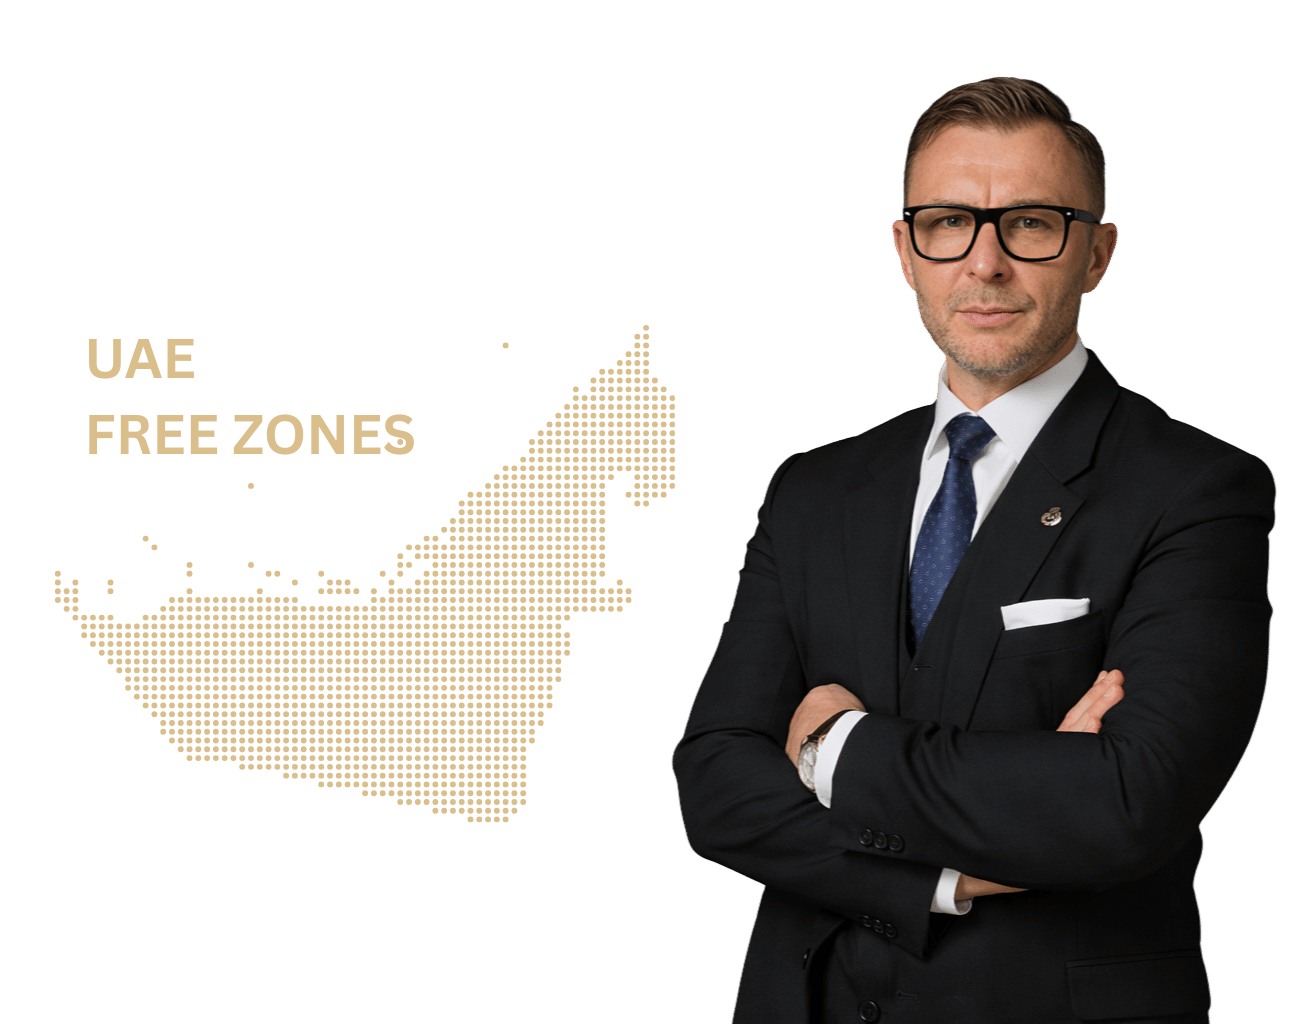
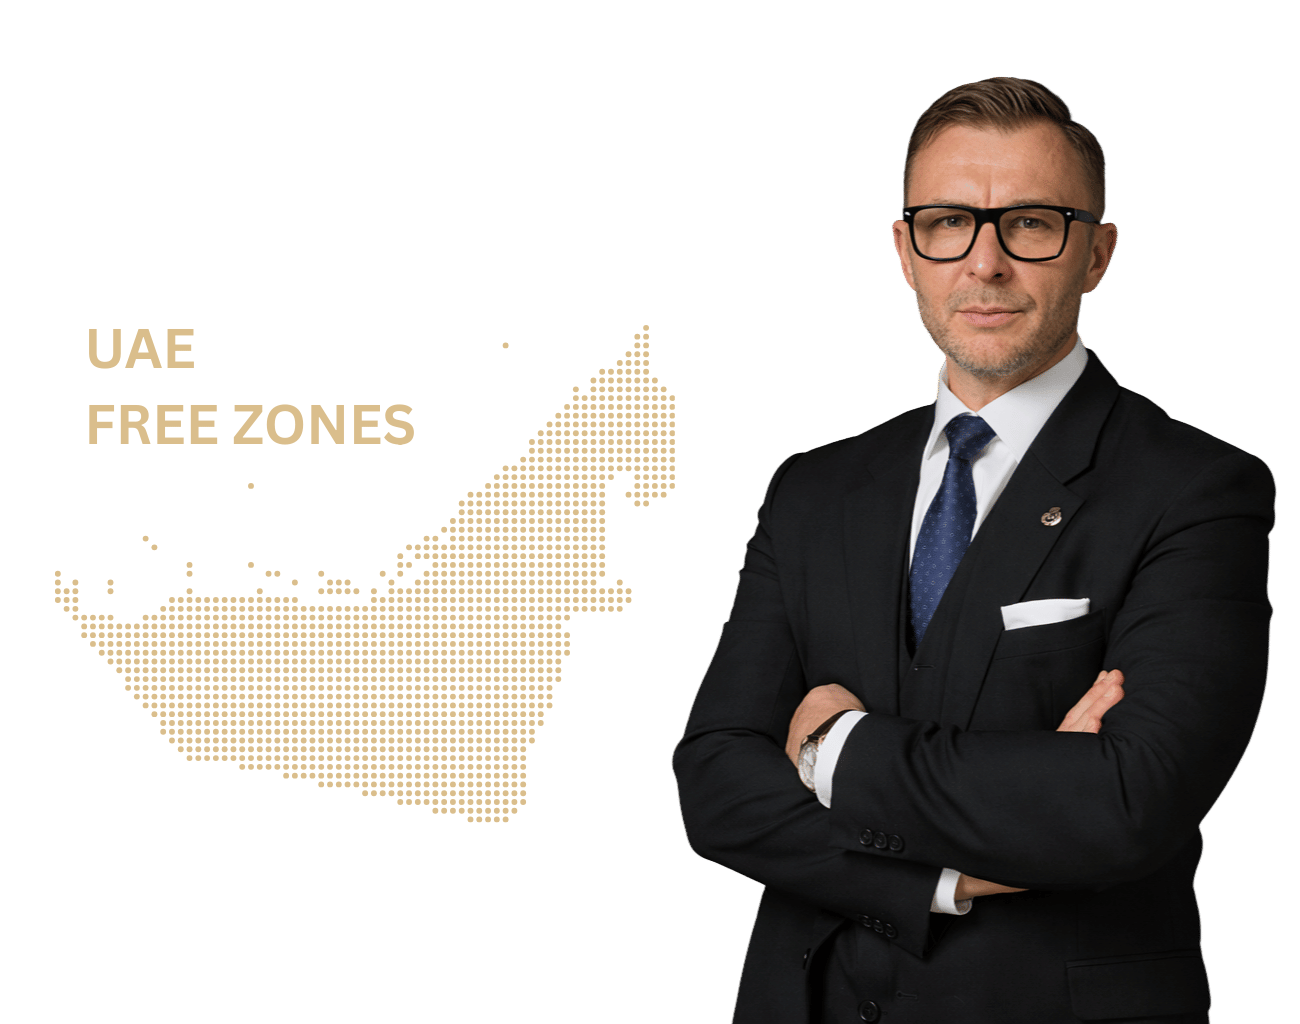
AboutUs_Pic_HeroChange

Changed region(s): [[0.0615, 0.3125, 0.3385, 0.4688]]

diff --git a/src/components/Header.tsx b/src/components/Header.tsx
@@ -23,9 +23,10 @@ export function Header() {
   const [isMobileMenuOpen, setIsMobileMenuOpen] = useState(false);
   useEffect(() => {
     const handleScroll = () => {
-      setIsScrolled(window.scrollY > 20);
+      setIsScrolled(window.scrollY > 24);
     };
     window.addEventListener('scroll', handleScroll);
+    handleScroll();
     return () => window.removeEventListener('scroll', handleScroll);
   }, []);
   const scrollToSection = (href: string) => {
@@ -37,7 +38,7 @@ export function Header() {
     }
     setIsMobileMenuOpen(false);
   };
-  return <header className={`fixed top-0 left-0 right-0 z-50 transition-all duration-300 ${isScrolled ? 'bg-primary/98 backdrop-blur-sm shadow-xl py-3' : 'bg-transparent py-5'}`}>
+  return <header className={`fixed top-0 left-0 right-0 z-50 transition-all duration-300 ${isScrolled ? 'bg-white/90 backdrop-blur-sm border-b border-black/5 shadow-sm text-primary py-3' : 'bg-transparent py-5'}`}>
       <div className="max-w-7xl mx-auto px-6 lg:px-8 flex items-center justify-between">
         {/* Logo */}
         <a href="#" className="flex items-center">
@@ -46,7 +47,7 @@ export function Header() {
 
         {/* Desktop Navigation */}
         <nav className="hidden lg:flex items-center gap-10">
-          {navLinks.map(link => <button key={link.href} onClick={() => scrollToSection(link.href)} className="font-body text-sm text-primary-foreground/70 hover:text-primary-foreground transition-colors duration-200 relative group">
+          {navLinks.map(link => <button key={link.href} onClick={() => scrollToSection(link.href)} className={`font-body text-sm transition-colors duration-200 relative group ${isScrolled ? 'text-primary/80 hover:text-primary' : 'text-primary-foreground/70 hover:text-primary-foreground'}`}>
               {link.label}
               <span className="absolute -bottom-1 left-0 w-0 h-0.5 bg-beige transition-all duration-200 group-hover:w-full" />
             </button>)}
@@ -56,15 +57,15 @@ export function Header() {
         </nav>
 
         {/* Mobile Menu Button */}
-        <button className="lg:hidden p-2 text-primary-foreground hover:bg-white/10 rounded-lg transition-colors" onClick={() => setIsMobileMenuOpen(!isMobileMenuOpen)} aria-label="Toggle menu">
+        <button className={`lg:hidden p-2 rounded-lg transition-colors ${isScrolled ? 'text-primary hover:bg-black/5' : 'text-primary-foreground hover:bg-white/10'}`} onClick={() => setIsMobileMenuOpen(!isMobileMenuOpen)} aria-label="Toggle menu">
           {isMobileMenuOpen ? <X size={24} /> : <Menu size={24} />}
         </button>
       </div>
 
       {/* Mobile Navigation */}
-      {isMobileMenuOpen && <div className="lg:hidden bg-primary/98 backdrop-blur-sm border-t border-white/10 animate-in slide-in-from-top-2 duration-200">
+      {isMobileMenuOpen && <div className={`lg:hidden backdrop-blur-sm border-t animate-in slide-in-from-top-2 duration-200 ${isScrolled ? 'bg-white/95 border-black/10' : 'bg-primary/98 border-white/10'}`}>
           <nav className="max-w-7xl mx-auto px-6 py-6 flex flex-col gap-1">
-            {navLinks.map(link => <button key={link.href} onClick={() => scrollToSection(link.href)} className="font-body text-base text-primary-foreground/80 hover:text-primary-foreground hover:bg-white/5 transition-colors duration-200 text-left py-3 px-4 rounded-lg">
+            {navLinks.map(link => <button key={link.href} onClick={() => scrollToSection(link.href)} className={`font-body text-base transition-colors duration-200 text-left py-3 px-4 rounded-lg ${isScrolled ? 'text-primary/80 hover:text-primary hover:bg-black/5' : 'text-primary-foreground/80 hover:text-primary-foreground hover:bg-white/5'}`}>
                 {link.label}
               </button>)}
             <Button variant="hero" className="mt-4 w-full" onClick={() => scrollToSection('#contact')}>

diff --git a/src/components/ContactSection.tsx b/src/components/ContactSection.tsx
@@ -11,7 +11,7 @@ import {
   SelectValue,
 } from '@/components/ui/select';
 import { Label } from '@/components/ui/label';
-import { ArrowRight, CheckCircle2, Shield, Send, Clock } from 'lucide-react';
+import { ArrowRight, CheckCircle2, Shield, Send, Clock, MessageCircle } from 'lucide-react';
 import { toast } from 'sonner';
 
 const forumOptions = [
@@ -70,25 +70,35 @@ export function ContactSection() {
   }
 
   return (
-    <section id="contact" className="section-navy py-24 md:py-32 relative overflow-hidden">
+    <section id="contact" className="section-navy py-24 md:py-32 relative overflow-hidden" aria-label="Request assessment" >
       {/* Background decoration */}
       <div className="absolute inset-0">
         <div className="absolute top-1/2 left-0 w-96 h-96 bg-beige/5 rounded-full blur-3xl -translate-y-1/2" />
       </div>
       
-      <div className="max-w-7xl mx-auto px-6 lg:px-8 relative z-10">
-        <div className="grid lg:grid-cols-2 gap-16 items-start">
+      <div id="request-assessment" className="max-w-7xl mx-auto px-6 lg:px-8 relative z-10">
+        <div className="grid lg:grid-cols-2 gap-16 items-start lg:items-stretch">
           {/* Left - CTA Content */}
-          <div>
-            <span className="text-sm font-semibold text-beige uppercase tracking-widest mb-4 block">
-              Get Started
-            </span>
-            <h2 className="heading-section text-primary-foreground mb-6">
-              Before relying on a UAE forum, make sure it actually applies.
-            </h2>
-            <p className="body-large text-primary-foreground/80 mb-10">
-              If you are in a dispute, facing one, or uncertain which forum governs your case, we can review the clause and the key facts and explain the options clearly.
-            </p>
+          <div className="flex flex-col h-full">
+            <div>
+              <span className="text-sm font-semibold text-beige uppercase tracking-widest mb-4 block">
+                Get Started
+              </span>
+              <h2 className="heading-section text-primary-foreground mb-6">
+                Before relying on a UAE forum, make sure it actually applies.
+              </h2>
+
+              <div className="mb-6">
+                <p className="text-beige uppercase font-heading text-2xl md:text-3xl tracking-widest leading-tight">
+                  <span className="block">SADEQ DISPUTES</span>
+                  <span className="block">NOT JUST TO FIGHT. TO PREVAIL!</span>
+                </p>
+              </div>
+
+              <p className="body-large text-primary-foreground/80 mb-6">
+                If you are in a dispute, facing one, or uncertain which forum governs your case, we can review the clause and the key facts and explain the options clearly. You can also request a private consultation with our experienced team. We advise on dispute strategy and forum selection across UAE free zones.
+              </p>
+            </div>
             
             {/* Trust indicators */}
             <div className="space-y-4">
@@ -108,6 +118,20 @@ export function ContactSection() {
                   Initial information helps us assess the next step
                 </p>
               </div>
+            </div>
+
+            <div className="mt-10 lg:mt-auto lg:mb-8 w-full lg:px-8">
+              <Button
+                asChild
+                variant="hero"
+                size="xl"
+                className="w-full group flex items-center justify-center gap-3"
+              >
+                <a href="https://sadekov.ee/en/online-booking">
+                  <MessageCircle className="w-5 h-5 text-primary" />
+                  Online consultation with our legal team
+                </a>
+              </Button>
             </div>
           </div>
 

diff --git a/src/components/HowWeHelpSection.tsx b/src/components/HowWeHelpSection.tsx
@@ -1,18 +1,20 @@
-import { CheckCircle2, Gavel, MessageSquareText, Globe } from 'lucide-react';
+import { CheckCircle2, Gavel, Globe, FileText } from 'lucide-react';
 import { ProcessFlow } from './icons/ProcessFlow';
 
 const services = [
   {
     icon: Gavel,
-    text: "Jurisdiction and forum assessment (DIFC / ADGM / arbitration)",
-  },
-  {
-    icon: MessageSquareText,
-    text: "Strategic advice before filing a claim or responding to one",
+    text: "Jurisdiction and forum assessment (DIFC / ADGM / arbitration) and strategic advice",
   },
   {
     icon: Globe,
     text: "Cross-border enforceability planning and dispute structuring",
+  },
+  {
+    icon: FileText,
+    title: "Case Assessment Product",
+    body: "A report-based package including a review of your legal position, options, risks, and whether pursuing a claim is commercially sensible.",
+    highlight: true,
   },
 ];
 
@@ -28,7 +30,7 @@ export function HowWeHelpSection() {
           <ProcessFlow />
         </div>
 
-        <div className="grid lg:grid-cols-2 gap-16 items-start">
+        <div className="grid lg:grid-cols-2 gap-16 items-start lg:items-stretch">
           {/* Left - Content */}
           <div>
             <span className="text-sm font-semibold text-beige uppercase tracking-widest mb-4 block">
@@ -50,19 +52,26 @@ export function HowWeHelpSection() {
           </div>
 
           {/* Right - Services */}
-          <div className="space-y-4">
+          <div className="flex flex-col gap-4 h-full">
             {services.map((service, index) => (
               <div
                 key={index}
-                className="group flex items-start gap-5 p-6 bg-background border border-border rounded-xl hover:shadow-lg hover:border-beige/30 transition-all duration-300"
+                className={`group flex items-center gap-5 p-6 border border-border rounded-xl hover:shadow-lg hover:border-beige/30 transition-all duration-300 flex-1 ${service.highlight ? 'bg-beige/10' : 'bg-background'}`}
               >
                 <div className="w-12 h-12 rounded-xl bg-beige/10 border border-beige/20 flex items-center justify-center flex-shrink-0 group-hover:bg-beige/20 transition-colors">
                   <service.icon className="w-6 h-6 text-beige" />
                 </div>
-                <div className="flex-1 pt-1">
+                <div className="flex-1">
                   <div className="flex items-start gap-3">
                     <CheckCircle2 className="w-5 h-5 text-beige flex-shrink-0 mt-0.5" />
-                    <span className="body-base text-foreground font-medium">{service.text}</span>
+                    {service.title ? (
+                      <div className="flex flex-col gap-1">
+                        <span className="body-base text-foreground font-medium">{service.title}</span>
+                        <span className="body-small text-muted-foreground">{service.body}</span>
+                      </div>
+                    ) : (
+                      <span className="body-base text-foreground font-medium">{service.text}</span>
+                    )}
                   </div>
                 </div>
               </div>

diff --git a/src/components/AboutSadeqDisputesSection.tsx b/src/components/AboutSadeqDisputesSection.tsx
@@ -1,0 +1,54 @@
+import freezoneImg from "@/assets/freezone.jpg";
+import { Button } from "@/components/ui/button";
+
+export function AboutSadeqDisputesSection() {
+  const scrollToRequestForm = () => {
+    const element = document.querySelector('#request-assessment');
+    if (element) {
+      element.scrollIntoView({ behavior: 'smooth', block: 'start' });
+    }
+  };
+
+  return (
+    <section className="section-white pt-5 pb-24 md:pt-7 md:pb-32">
+      <div className="max-w-7xl mx-auto px-6 lg:px-8">
+        <div className="grid lg:grid-cols-2 gap-16 items-start lg:items-stretch">
+          <div>
+            <img
+              src={freezoneImg}
+              alt="UAE Free Zone"
+              className="w-full aspect-square object-cover rounded-2xl border border-border"
+            />
+          </div>
+          <div className="flex flex-col h-full">
+            <h2 className="heading-section text-foreground mb-8">
+              About Sadeq Disputes
+            </h2>
+            <div className="space-y-6">
+              <p className="body-large text-muted-foreground">
+                Sadekov Law Office is an independent Estonian law firm based in Tallinn, with over 25 years of experience and membership in the Estonian Bar Association since 2006. Our core practice covers criminal law, law of obligations, commercial law, family law, enforcement proceedings, and labour law. We also advise on complex cross-border matters, including international criminal defence and legal protection, international arbitration and commercial disputes, sanctions and tax-related investigations, and personal legal advisory for HNWI and VHNWI clients.
+              </p>
+              <p className="body-large text-muted-foreground">
+                In the UAE Free Zones, we operate under the <span className="font-semibold text-foreground">Sadeq Disputes</span> brand, focusing on disputes connected with DIFC, ADGM, and arbitration frameworks commonly used in the UAE. We represent clients across Europe and the MENA region in sensitive criminal, private, and cross-border cases under Estonian and EU law.
+              </p>
+            </div>
+
+            <div className="mt-10 flex flex-col sm:flex-row gap-4 lg:mt-auto">
+              <Button asChild variant="hero" size="xl" className="w-full sm:w-auto">
+                <a href="https://sadekov.ee/en/contacts">Contact us</a>
+              </Button>
+              <Button
+                variant="outline"
+                size="xl"
+                onClick={scrollToRequestForm}
+                className="w-full sm:w-auto border-beige text-beige hover:bg-beige/10 hover:text-beige"
+              >
+                Legal Consult
+              </Button>
+            </div>
+          </div>
+        </div>
+      </div>
+    </section>
+  );
+}

diff --git a/src/components/icons/ProcessFlow.tsx b/src/components/icons/ProcessFlow.tsx
@@ -3,23 +3,23 @@ import { Search, MessageSquare, FileCheck, ArrowRight } from 'lucide-react';
 const steps = [
   {
     icon: Search,
-    title: "Assess",
-    subtitle: "Review clause & facts"
+    title: "Assessment",
+    subtitle: "Check clause & facts"
   },
   {
     icon: MessageSquare,
-    title: "Advise",
-    subtitle: "Explain your options"
+    title: "Advice",
+    subtitle: "Map your options"
   },
   {
     icon: FileCheck,
-    title: "Structure",
-    subtitle: "Plan the approach"
+    title: "Proceedings",
+    subtitle: "File in the right forum"
   },
   {
     icon: ArrowRight,
-    title: "Proceed",
-    subtitle: "Act with clarity in the right forum"
+    title: "Enforcement",
+    subtitle: "Enforce the outcome"
   }
 ];
 

diff --git a/src/pages/Index.tsx b/src/pages/Index.tsx
@@ -4,6 +4,7 @@ import { WhyForumMattersSection } from '@/components/WhyForumMattersSection';
 import { ForumsOverviewSection } from '@/components/ForumsOverviewSection';
 import { MisconceptionsSection } from '@/components/MisconceptionsSection';
 import { HowWeHelpSection } from '@/components/HowWeHelpSection';
+import { AboutSadeqDisputesSection } from '@/components/AboutSadeqDisputesSection';
 import { ContactSection } from '@/components/ContactSection';
 import { Footer } from '@/components/Footer';
 
@@ -17,6 +18,7 @@ const Index = () => {
         <ForumsOverviewSection />
         <MisconceptionsSection />
         <HowWeHelpSection />
+        <AboutSadeqDisputesSection />
         <ContactSection />
       </main>
       <Footer />

diff --git a/index.html b/index.html
@@ -6,7 +6,7 @@
     <title>Sadekov Law Firm | UAE Free Zone Dispute Resolution - DIFC, ADGM & Arbitration</title>
     <meta name="description" content="Before you file or respond in a UAE dispute, confirm the right forum applies. Expert assessment of DIFC Courts, ADGM Courts, and arbitration (DIAC/ICC) jurisdiction." />
     <meta name="robots" content="index, follow" />
-    <link rel="icon" type="image/x-icon" href="/favicon.ico" />
+    <link rel="icon" type="image/jpeg" href="/src/assets/fav_icn.jpg" />
     
     <!-- Open Graph -->
     <meta property="og:title" content="Sadekov Law Firm | UAE Free Zone Dispute Resolution" />

diff --git a/src/components/HeroSection.tsx b/src/components/HeroSection.tsx
@@ -46,7 +46,7 @@ export function HeroSection() {
 
             {/* Headline */}
             <h1 className="heading-hero text-primary-foreground mb-6 leading-tight">
-              Before you file or respond, confirm the right forum actually applies!
+              UAE Free Zone dispute? Start by confirming the forum.
             </h1>
 
             {/* Subheading */}
